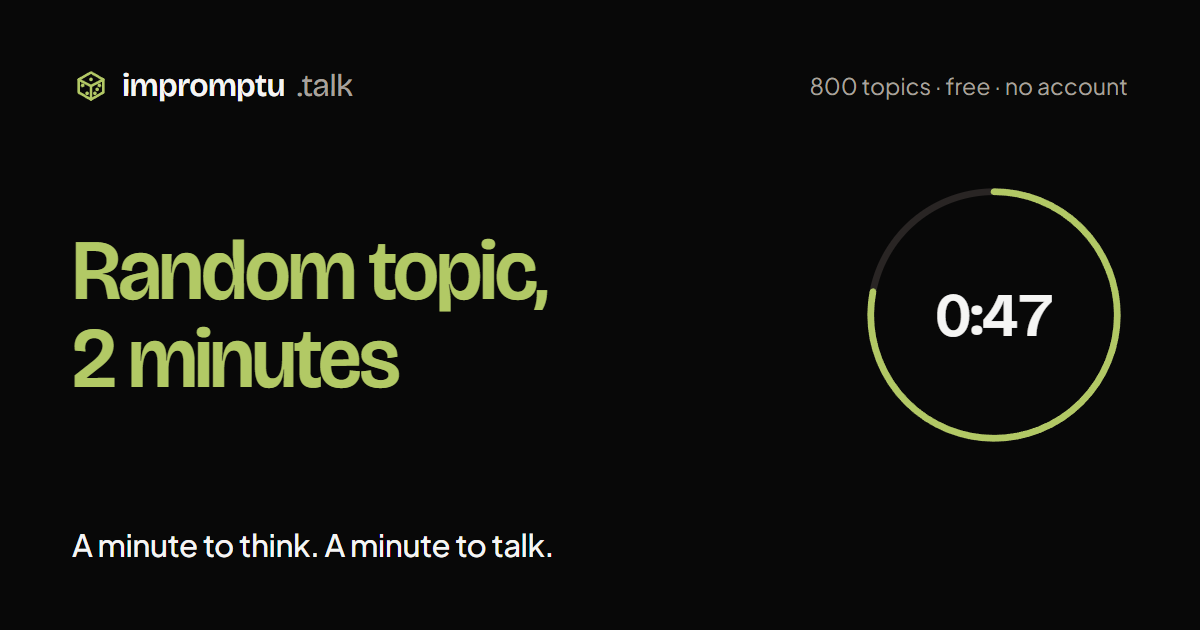
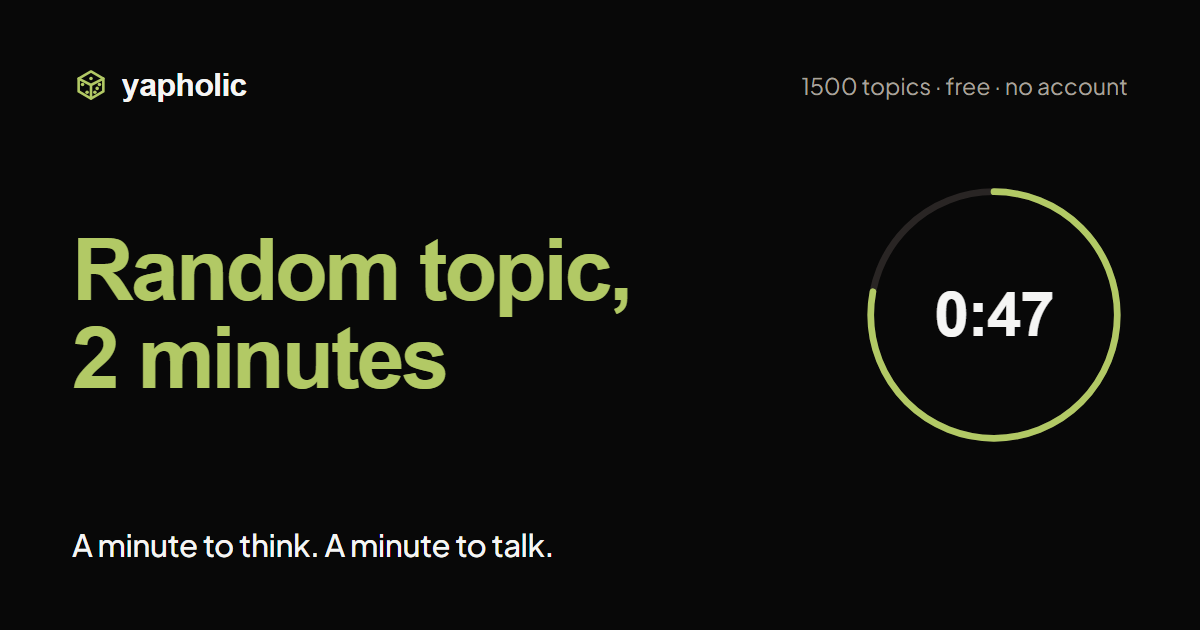
the share card says yapholic, and quotes the bank it has

diff --git a/frontend/lib/site.ts b/frontend/lib/site.ts
@@ -11,12 +11,12 @@
  * and stays in code.
  */
 
-export const SITE_NAME = "yapholic.com";
+export const SITE_NAME = "Yapholic";
 
-export const SITE_TAGLINE = "A random topic. A minute to think. A minute to talk.";
+export const SITE_TAGLINE = "Impromptu speaking practice with Feedback";
 
 export const SITE_DESCRIPTION =
-  "Get a random topic. A minute to think. A minute to talk. Free impromptu speaking practice, no account, nothing to install.";
+  "Free impromptu speaking practice, no account, nothing to install. Perfect for impromptu, extemporaneous speaking, and practicing for interviews, debates, and presentations.";
 
 /* No trailing slash, because everything here appends one. The default is
    the dev port rather than a domain: a wrong domain baked in as a fallback

diff --git a/docs/assets/og-card.html b/docs/assets/og-card.html
@@ -41,7 +41,6 @@
     font-size: 32px;
     letter-spacing: -0.02em;
   }
-  .wordmark span { color: var(--muted); font-weight: 400; }
   .wordmark .mark { width: 38px; height: 38px; color: var(--accent); }
 
   .middle { display: flex; align-items: center; gap: 56px; }
@@ -110,9 +109,9 @@
       <circle cx="19.29" cy="22.15" r="1.5"/>
     </g>
   </svg>
-  yapholic<span>.talk</span>
+  yapholic
 </div>
-<p class="terms">800 topics · free · no account</p>
+<p class="terms">1500 topics · free · no account</p>
 </div>
 
 <div class="middle">

diff --git a/docs/DECISIONS.md b/docs/DECISIONS.md
@@ -286,3 +286,5 @@ The running log of decisions taken while building yapholic v1, newest at the bot
 - 2026-09-09: **An uploaded picture is capped at 1MB, and the browser shrinks it to fit before it sends anything** (owner's call on the number). 12MB was the first pass and it was the wrong ceiling: the round draws a picture at 460 CSS pixels and what gets stored is WebP at quality 72 on a 1400px side, so a megabyte is already more detail than anything on the site can show, and the other eleven were paid for on somebody's phone data and held in the bucket for a genre of two hundred. The awkward half is that a camera roll picture is several megabytes, so a bare check would refuse most of what a person actually has to upload. `frontend/lib/pictures.ts` closes that: on pick it decodes the file, draws it down to the same 1400px longest side the backend would have used anyway, and encodes WebP down a short quality ladder (0.9, 0.8, 0.7, 0.6), stopping at the first rung that fits. It starts high on purpose - the backend re-encodes what it stores, so squeezing hard here would stack two lossy passes on the same pixels, and this pass only has to clear the wire. A file that already fits and is already small enough is handed over untouched rather than re-encoded for nothing, and one the browser cannot decode is passed through so the backend stays the only thing that decides what is an image. The 1MB check stays on both sides: the browser's is what saves a phone from pushing a whole body up the wire to hear no, and the route's is the one that is actually enforced.
 
 - 2026-09-09: **The server-only fetchers live in `lib/api.ts`; `lib/owned.ts` holds shapes and pure functions and nothing that touches `next/headers`.** `fetchMine`, `fetchOwned` and `fetchSharedGenre` sat next to the `OwnedGenre` types in `lib/owned.ts`, and `lib/owned.ts` imported `backendFetch`, so the moment a client component read one of those types - the genre editor reads `PICTURE_TOO_BIG`, `OwnedGenre` and `OwnedTopic` - `next/headers` was pulled into the browser bundle and the production build failed outright. Types are the thing both sides share, so the module holding them is the one that has to stay side-free; the fetchers move to where every other server call to the backend already is. `lib/api.ts` importing the shapes is the safe direction.
+
+- 2026-09-09: **The share card is re-rendered, and the wordmark on it is now just "yapholic"** (owner's call on dropping the domain). It still said "impromptu .talk", which was a rename the card missed, and the first pass at fixing it read "yapholic .com" with the gap the flex row puts between the name and the suffix. The name alone is what the site's own header draws, so the card and the header now say the same thing. The terms line goes from "800 topics" to "1500 topics" in the same pass: the bank is past seventeen hundred and the about page already said over fifteen hundred, so the card was the only surface still quoting v0's number. `docs/assets/og-card.html` is the source and `frontend/public/og.png` is the render, made with `chrome --headless --window-size=1200,630 --screenshot`.
